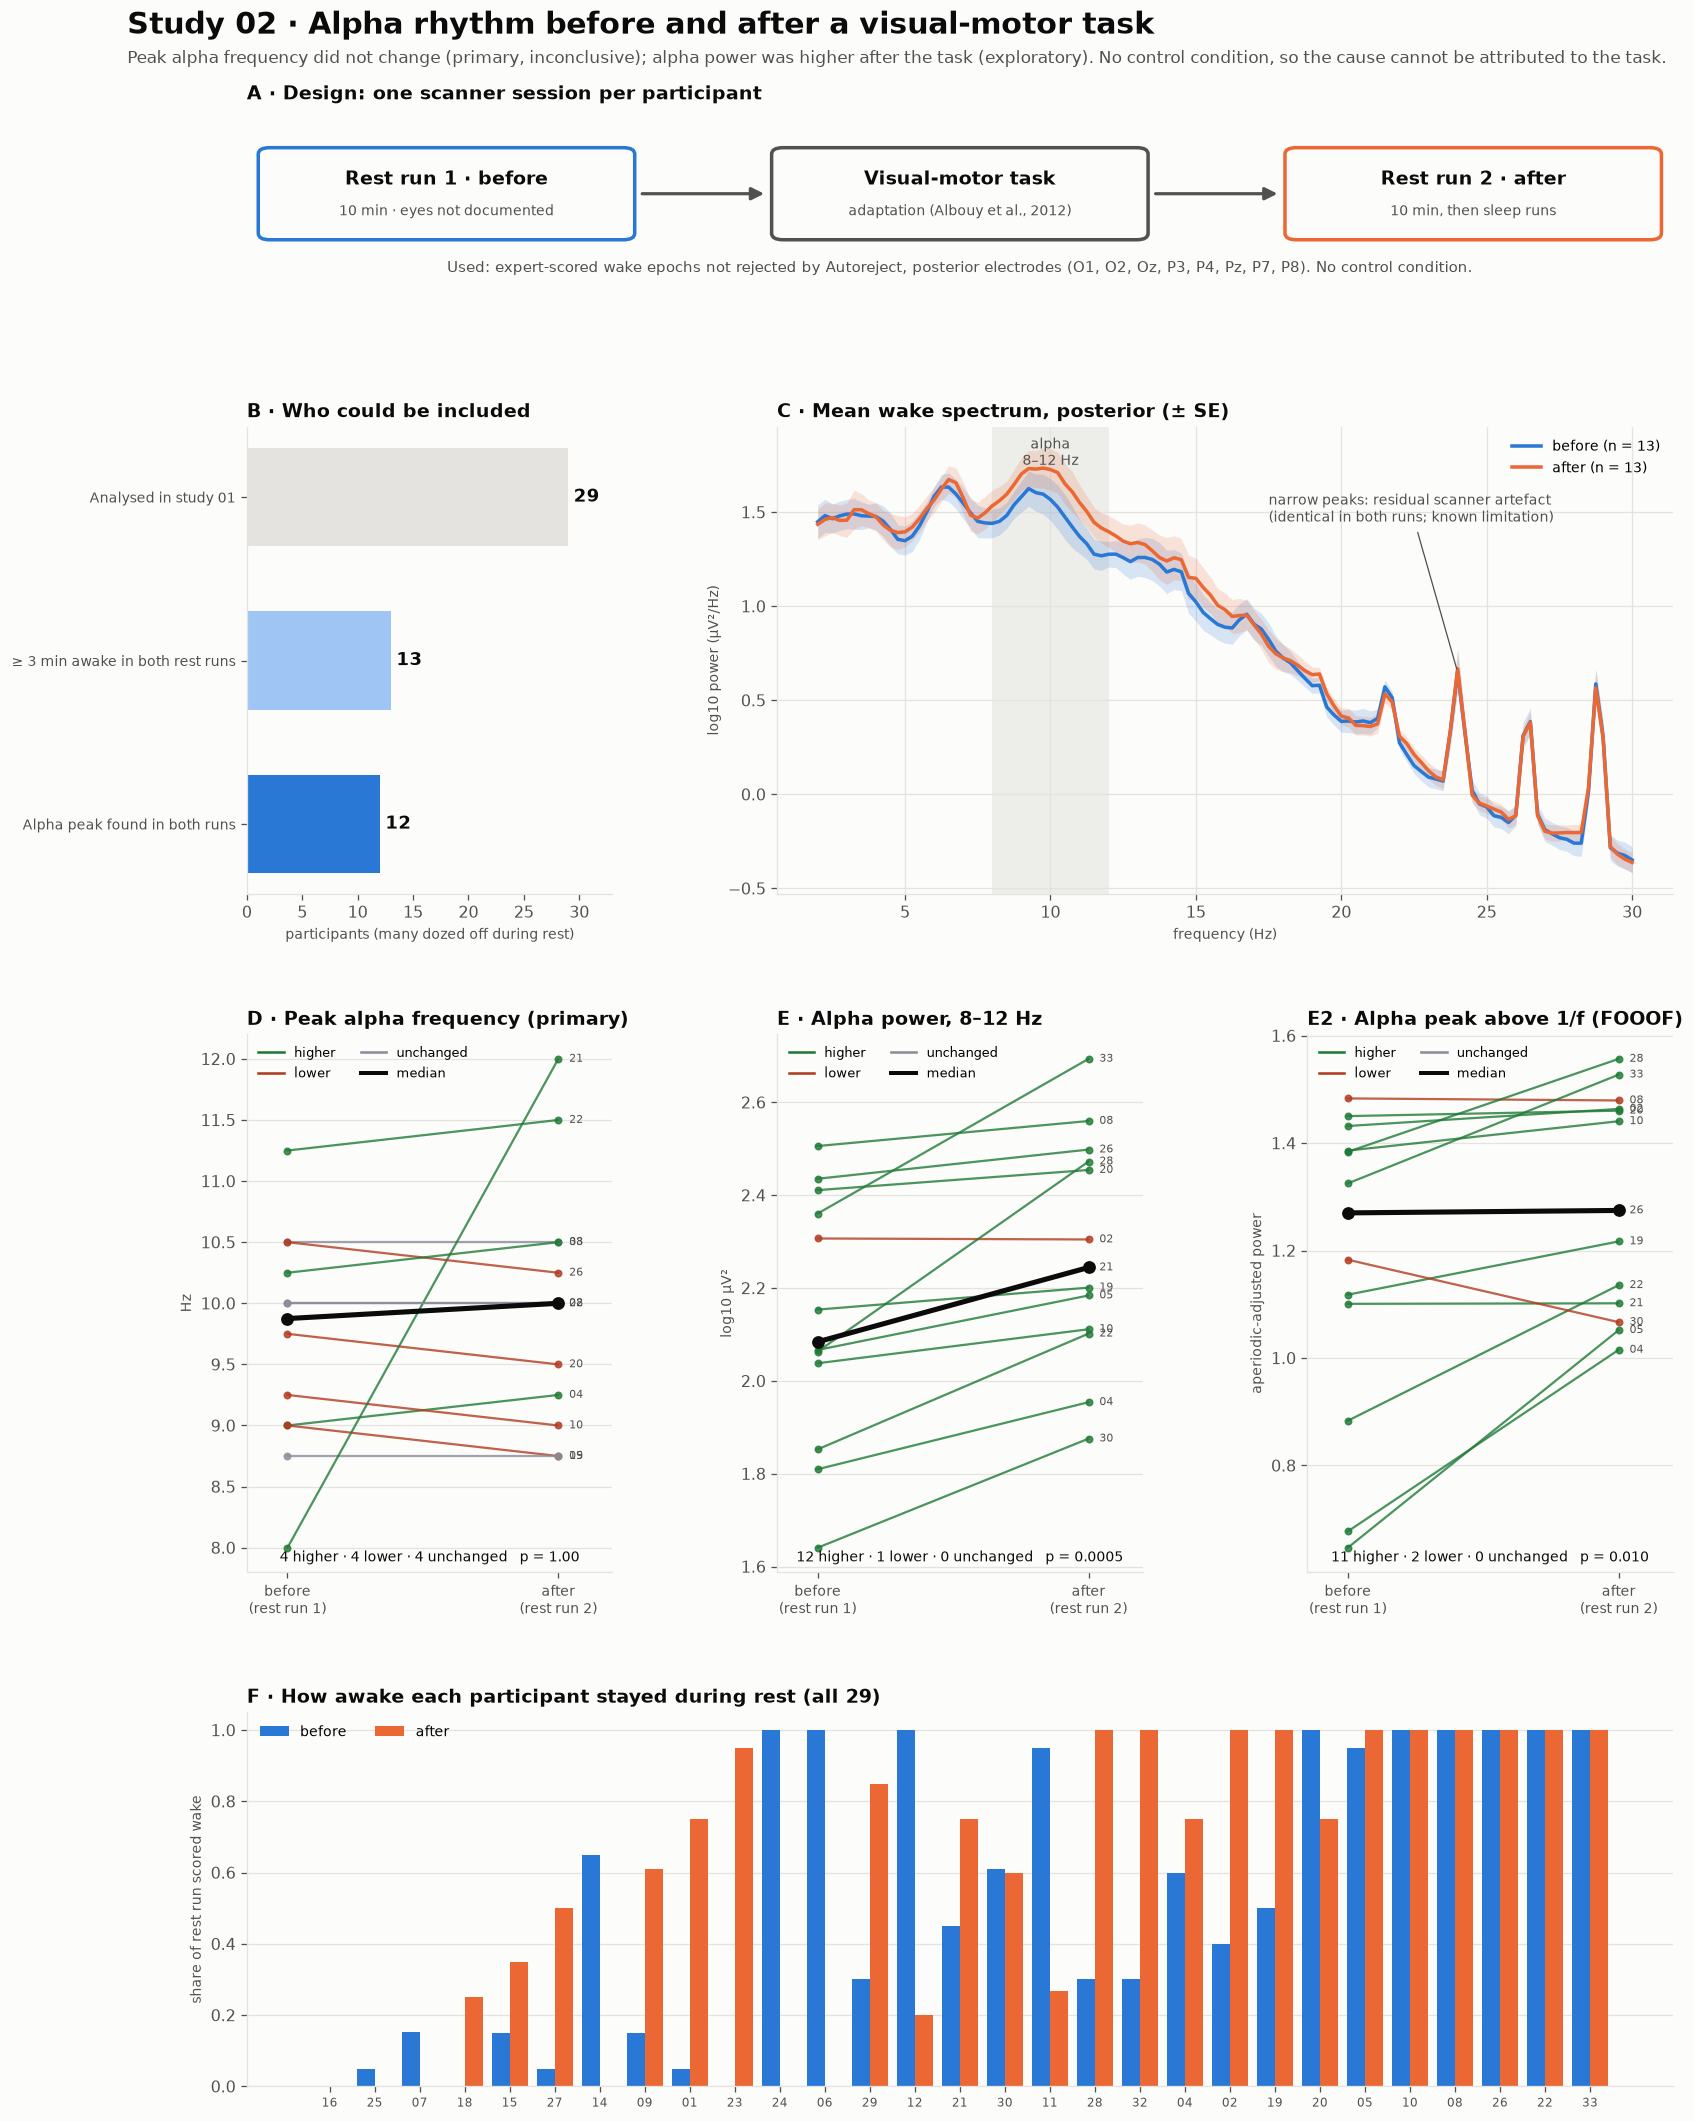
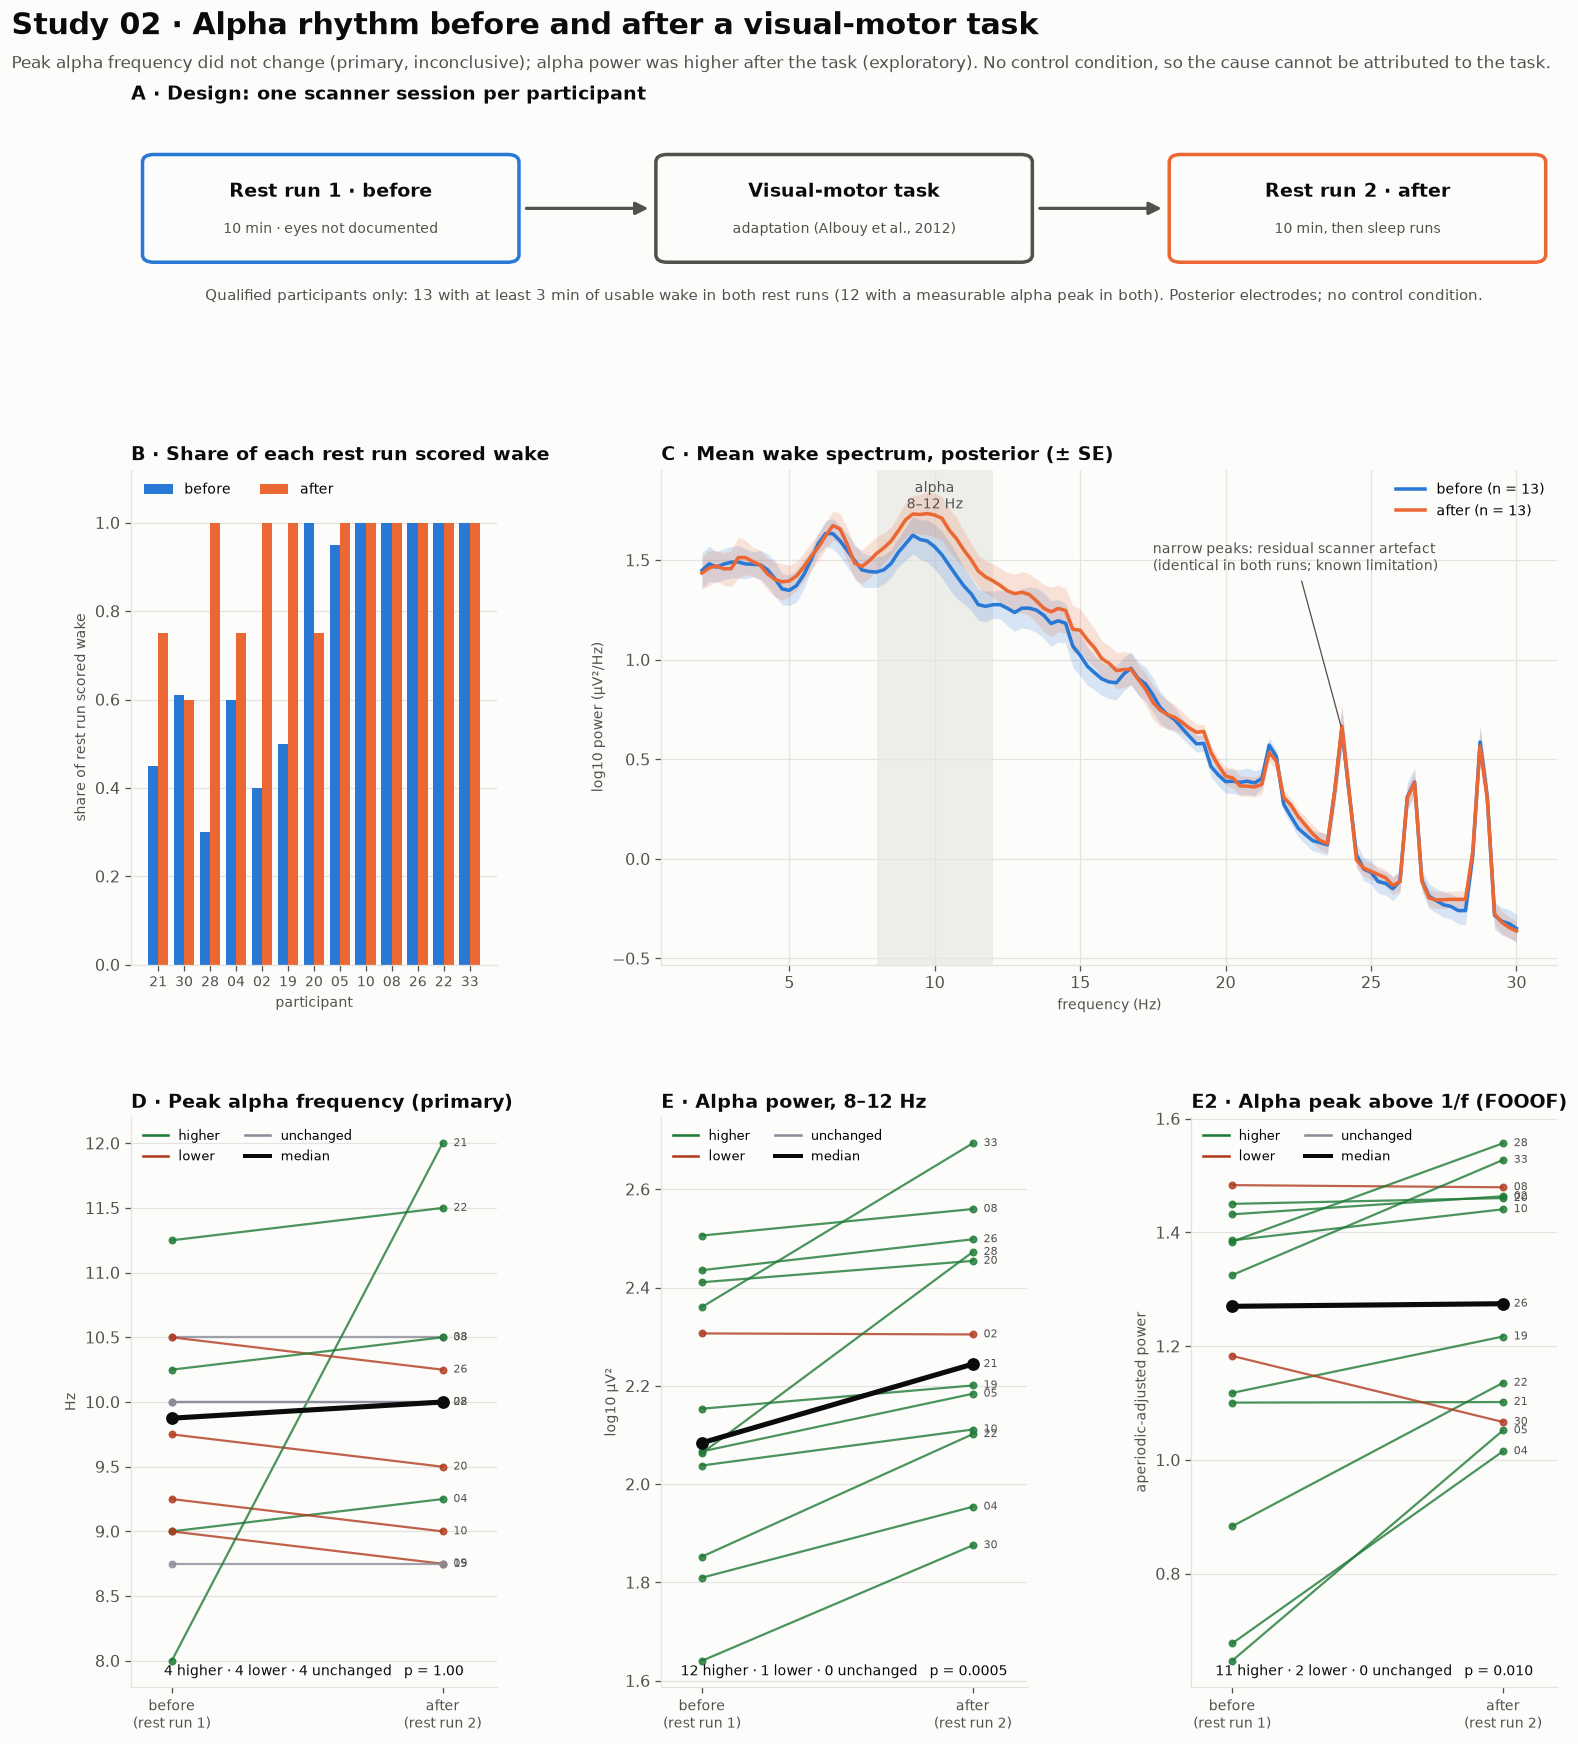
Study 02: figure and README restricted to the 13 qualified participants
Wake share now reported for the qualified participants (a deviation from the
plan, which did not restrict it; the all-29 value is given in a footnote).
The inclusion funnel panel is replaced by the qualified participants' wake share.

diff --git a/studies/02-alpha-before-after/figures_alpha.py b/studies/02-alpha-before-after/figures_alpha.py
@@ -57,22 +57,8 @@ def design(ax):
     box(ax, 7.3, 0.6, 2.6, 1.1, "Rest run 2 · after", "10 min, then sleep runs", COL["after"])
     for a, b in ((2.75, 3.65), (6.35, 7.25)):
         ax.add_patch(FancyArrowPatch((a, 1.15), (b, 1.15), arrowstyle="-|>", mutation_scale=16, lw=2, color=INK2))
-    ax.text(5, 0.18, "Used: expert-scored wake epochs not rejected by Autoreject, posterior electrodes (O1, O2, Oz, P3, P4, Pz, P7, P8). "
-            "No control condition.", ha="center", fontsize=9.5, color=INK2)
-
-
-def inclusion(ax, d):
-    w = d.pivot(index="subject", columns="run", values="n_wake_epochs")
-    both = int((w.min(axis=1) >= MIN_EPOCHS).sum())
-    paf = int(d.pivot(index="subject", columns="run", values="paf").dropna().shape[0])
-    stages = [("Analysed in study 01", 29), ("≥ 3 min awake in both rest runs", both), ("Alpha peak found in both runs", paf)]
-    ax.set_title("B · Who could be included", loc="left", fontsize=12, fontweight="bold", color=INK)
-    y = np.arange(len(stages))[::-1]
-    ax.barh(y, [n for _, n in stages], color=[GRID, "#9ec5f4", COL["before"]], height=0.6)
-    for yi, (lab, n) in zip(y, stages):
-        ax.text(n + 0.5, yi, f"{n}", va="center", fontsize=11, fontweight="bold", color=INK)
-    ax.set_xlim(0, 33); ax.set_yticks(y, [lab for lab, _ in stages], fontsize=9)
-    ax.set_xlabel("participants (many dozed off during rest)", fontsize=9, color=INK2)
+    ax.text(5, 0.18, "Qualified participants only: 13 with at least 3 min of usable wake in both rest runs (12 with a measurable "
+            "alpha peak in both). Posterior electrodes; no control condition.", ha="center", fontsize=9.5, color=INK2)
 
 
 def spectra(ax, f, s):
@@ -113,14 +99,16 @@ def slopes(ax, d, col, title, ylabel, fmt, note):
 
 def wake_share(ax, d):
     w = d.pivot(index="subject", columns="run", values="wake_share")[["before", "after"]]
+    n = d.pivot(index="subject", columns="run", values="n_wake_epochs")
+    w = w.loc[n.index[n.min(axis=1) >= MIN_EPOCHS]]                 # qualified participants only
     x = np.arange(len(w))
     order = w.mean(axis=1).sort_values().index
     w = w.loc[order]
     ax.bar(x - 0.2, w.before, 0.4, color=COL["before"], label="before")
     ax.bar(x + 0.2, w.after, 0.4, color=COL["after"], label="after")
-    ax.set_xticks(x, w.index, fontsize=7.5); ax.set_ylim(0, 1.05)
+    ax.set_xticks(x, w.index, fontsize=8.5); ax.set_ylim(0, 1.12); ax.set_xlabel("participant", fontsize=9, color=INK2)
     ax.set_ylabel("share of rest run scored wake", fontsize=9, color=INK2)
-    ax.set_title("F · How awake each participant stayed during rest (all 29)", loc="left", fontsize=12, fontweight="bold", color=INK)
+    ax.set_title("B · Share of each rest run scored wake", loc="left", fontsize=12, fontweight="bold", color=INK)
     ax.legend(frameon=False, fontsize=9, ncol=2, loc="upper left"); ax.grid(axis="y", color=GRID); ax.set_axisbelow(True)
 
 
@@ -133,14 +121,14 @@ def main():
     plt.rcParams.update({"font.family": "DejaVu Sans", "figure.facecolor": SURFACE, "axes.facecolor": SURFACE,
                          "axes.edgecolor": GRID, "axes.spines.top": False, "axes.spines.right": False,
                          "xtick.color": INK2, "ytick.color": INK2})
-    fig = plt.figure(figsize=(16, 19))
-    gs = fig.add_gridspec(4, 3, height_ratios=[0.38, 1, 1.15, 0.8], hspace=0.36, wspace=0.45, top=0.945, bottom=0.04)
+    fig = plt.figure(figsize=(16, 15.5))
+    gs = fig.add_gridspec(3, 3, height_ratios=[0.42, 1, 1.15], hspace=0.36, wspace=0.45, top=0.935, bottom=0.05)
     fig.suptitle("Study 02 · Alpha rhythm before and after a visual-motor task", x=0.06, ha="left", y=0.99, fontsize=19,
                  fontweight="bold", color=INK)
-    fig.text(0.06, 0.966, "Peak alpha frequency did not change (primary, inconclusive); alpha power was higher after the task "
+    fig.text(0.06, 0.958, "Peak alpha frequency did not change (primary, inconclusive); alpha power was higher after the task "
              "(exploratory). No control condition, so the cause cannot be attributed to the task.", fontsize=10.5, color=INK2)
     design(fig.add_subplot(gs[0, :]))
-    inclusion(fig.add_subplot(gs[1, 0]), d)
+    wake_share(fig.add_subplot(gs[1, 0]), d)
     spectra(fig.add_subplot(gs[1, 1:]), f, spec)
     p, pw = s["paf"], s["alpha_log_power"]
     slopes(fig.add_subplot(gs[2, 0]), d, "paf", "D · Peak alpha frequency (primary)", "Hz",
@@ -149,7 +137,6 @@ def main():
            f"p = {pw['wilcoxon_p']:.4f}")
     slopes(fig.add_subplot(gs[2, 2]), d, "fooof_power", "E2 · Alpha peak above 1/f (FOOOF)", "aperiodic-adjusted power",
            None, f"p = {s['fooof_power']['wilcoxon_p']:.3f}")
-    wake_share(fig.add_subplot(gs[3, :]), d)
     out = OUT / "alpha_overview.png"
     fig.savefig(out, dpi=115, facecolor=SURFACE, bbox_inches="tight")
     print("saved", out.relative_to(ROOT))

diff --git a/studies/02-alpha-before-after/README.md b/studies/02-alpha-before-after/README.md
@@ -9,11 +9,11 @@
 > [!IMPORTANT]
 > **Primary hypothesis inconclusive.** Peak alpha frequency did not differ between the rest runs (median change 0.0 Hz, 4 higher / 4 lower / 4 unchanged, p = 1.0, n = 12). In exploratory analyses, **alpha power was higher after the task** (12 of 13 participants, p < 0.001; aperiodic-adjusted peak power 11 of 13, p = 0.010). Because the design has no control condition, this increase cannot be attributed to the task rather than to time spent in the scanner or changes in vigilance.
 
-![Study 02 overview: design, inclusion, mean spectra, per-participant alpha frequency and power, wake share](results/alpha_overview.png)
+![Study 02 overview: design, wake share, mean spectra, per-participant alpha frequency and power](results/alpha_overview.png)
 
-The mean spectra (panel C) show the alpha increase after the task as a raised peak between 8 and 12 Hz; the narrow peaks above 20 Hz are residual scanner artefact, identical in both runs. Each line in panels D–E is one participant (green higher, red lower, grey unchanged; black the median).
+All results and every panel use only the **qualified participants**: the 13 with at least 3 minutes of usable wake in both rest runs (02, 04, 05, 08, 10, 19, 20, 21, 22, 26, 28, 30, 33), of whom 12 had a measurable alpha peak in both runs. The mean spectra (panel C) show the alpha increase after the task as a raised peak between 8 and 12 Hz; the narrow peaks above 20 Hz are residual scanner artefact, identical in both runs. Each line in panels D–E2 is one participant (green higher, red lower, grey unchanged; black the median).
 
-**Sample.** Only 13 of 29 participants had at least 3 minutes of usable wake in both runs: many participants were drowsy or asleep during the rest runs, especially the second (median wake share 0.50 in run 1, 0.75 in run 2; paired difference not significant, p = 0.42). A peak alpha frequency could be estimated in both runs for 12.
+**Sample.** Of the 29 participants analysed in study 01, 16 did not qualify because they were drowsy or asleep for most of at least one rest run.
 
 ### Primary (pre-registered)
 
@@ -32,8 +32,10 @@ The positive mean reflects one participant (21: 8.0 → 12.0 Hz, estimated from 
 | **Alpha power, log10 µV², 8–12 Hz** | 13 | 2.12 | 2.29 | **+0.15 [0.09, 0.22]** | **12 / 1** | **< 0.001** |
 | **FOOOF aperiodic-adjusted alpha peak power** | 13 | 1.27 | 1.30 | **+0.11 [0.04, 0.19]** | **11 / 2** | **0.010** |
 | FOOOF aperiodic exponent | 13 | 1.90 | 1.93 | −0.02 [−0.12, 0.07] | 9 / 4 | 0.68 |
-| Share of rest run scored wake | 29 | 0.50 | 0.75 | +0.07 [−0.12, 0.24] | 14 / 9 | 0.42 |
+| Share of rest run scored wake, qualified participants† | 13 | 0.95 | 1.00 | +0.16 [0.02, 0.32] | 6 / 2 | 0.078 |
 | Peak alpha frequency, equal epochs per run (sensitivity) | 12 | 9.75 Hz | 10.13 Hz | +0.50 Hz [−0.13, 1.33] | 4 / 5 | 0.84 |
+
+†Deviation from the plan, which did not restrict this measure: it is reported here for the qualified participants only. Across all 29 analysed participants, as originally computed, the median wake share was 0.50 before and 0.75 after (+0.07 [−0.12, 0.24], 14 / 9, p = 0.42).
 
 Alpha power rose by 0.15 log units (about 1.4-fold) after the task, consistently across participants; the increase in alpha power above the aperiodic background indicates that it was not a broadband shift. The power result (p < 0.001) would survive Bonferroni correction across the eight secondary tests (adjusted p ≈ 0.004); the aperiodic-adjusted result would not (≈ 0.08). Alpha frequency measures showed no consistent change.
 
